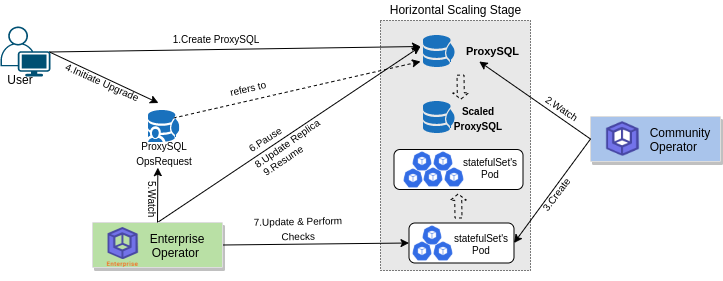
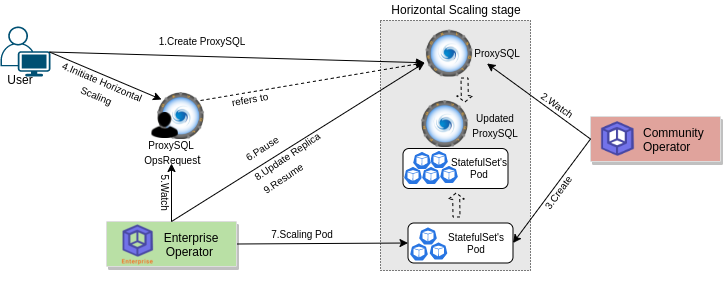
add proxysql docs : revised

diff --git a/docs/guides/proxysql/reconfigure/cluster/index.md b/docs/guides/proxysql/reconfigure/cluster/index.md
@@ -26,7 +26,7 @@ This guide will show you how to use `KubeDB` Enterprise operator to reconfigure 
 
 - You should be familiar with the following `KubeDB` concepts:
   - [ProxySQL](/docs/guides/proxysql/concepts/proxysql)
-  - [ProxySQL Cluster](/docs/guides/proxysql/clustering/galera-cluster)
+  - [ProxySQL Cluster](/docs/guides/proxysql/clustering/proxysql-cluster)
   - [ProxySQLOpsRequest](/docs/guides/proxysql/concepts/opsrequest)
   - [Reconfigure Overview](/docs/guides/proxysql/reconfigure/overview)
 
@@ -71,7 +71,7 @@ mysql.kubedb.com/mysql-server created
 Let's wait for the MySQL to be Ready. 
 
 ```bash
- $ kubectl get mysql -n demo 
+$ kubectl get mysql -n demo 
 NAME           VERSION   STATUS   AGE
 mysql-server   5.7.36    Ready    3m51s
 ```
@@ -215,7 +215,7 @@ NAME       TYPE          STATUS       AGE
 add-user   Reconfigure   Successful   20s
 ```
 
-Now let's check the mysql_users table in the proxysql server.
+Now let's check the `mysql_users` table in the proxysql server.
 
 ```bash
 ProxySQLAdmin > select username,password,active,default_hostgroup from mysql_users;
@@ -228,13 +228,13 @@ ProxySQLAdmin > select username,password,active,default_hostgroup from mysql_use
 2 rows in set (0.001 sec)
 ```
 
-We can see that the users has been successfuly added to the mysql_users table.
+We can see that the users has been successfuly added to the `mysql_users` table.
 
 ### Update Users
 
-We have successfuly added new users in the mysql_users table with proxysqlopsrequest in the last section. Now we will see how to update any user information with proxysqlopsrequest. 
+We have successfuly added new users in the `mysql_users` table with proxysqlopsrequest in the last section. Now we will see how to update any user information with proxysqlopsrequest. 
 
-Suppose we want to update the active status and the default_hostgroup for the users testA and testB. We can create an ops-request like the following. As in the mysql_users table the username is the primary key, we should always provide the username in the information. To update just change the reqType to update.
+Suppose we want to update the `active` status and the `default_hostgroup` for the users "testA" and "testB". We can create an ops-request like the following. As in the `mysql_users` table the `username` is the primary key, we should always provide the `username` in the information. To update just change the `.spec.reqType` to `"update"`.
 
 ```yaml
 apiVersion: ops.kubedb.com/v1alpha1
@@ -265,7 +265,7 @@ $ kubectl apply -f https://github.com/kubedb/docs/raw/{{< param "info.version" >
 proxysqlopsrequest.ops.kubedb.com/update-user created
 ```
 
-Now wait for the ops-request to be successful.
+Now wait for the ops-request to be Successful.
 
 ```bash
 $ kubectl get proxysqlopsrequest -n demo     
@@ -274,7 +274,7 @@ add-user      Reconfigure   Successful   2m36s
 update-user   Reconfigure   Successful   6s
 ```
 
-Let's check the mysql_users table from the admin interface. 
+Let's check the `mysql_users` table from the admin interface. 
 
 ```bash
 ProxySQLAdmin > select username,password,active,default_hostgroup from mysql_users;
@@ -291,7 +291,7 @@ From the above output we can see that the user information has been successfuly 
 
 ### Delete Users 
 
-To delete user from the mysql_users table, all we need to do is just provide the usernames in the spec.configuration.mysqlUsers.users array and set the reqType to delete. Let's have a look at the below yaml.
+To delete user from the `mysql_users` table, all we need to do is just provide the usernames in the `spec.configuration.mysqlUsers.users` array and set the `spec.reqType` to delete. Let's have a look at the following yaml.
 
 ```yaml
 apiVersion: ops.kubedb.com/v1alpha1
@@ -325,7 +325,7 @@ delete-user   Reconfigure   Successful   12s
 update-user   Reconfigure   Successful   2m59s
 ```
 
-Now check the mysql_users table in the proxysql server.
+Now check the `mysql_users` table in the proxysql server.
 
 ```bash
 ProxySQLAdmin > select username,password,active,default_hostgroup from mysql_users;
@@ -345,8 +345,8 @@ With `KubeDB` `ProxySQL` ops-request you can reconfigure `mysql_query_rules` tab
 
 ### Check current mysql_query_rules table in ProxySQL
 
-Let's check the current mysql_query_rules table in the proxysql server.
-We might see some of the rules are already present. It happens when no rules are set in the initConfig section while deploying the proxysql. The operator adds some of the default query rules so that the basic operations can be run through the proxysql server. 
+Let's check the current `mysql_query_rules` table in the proxysql server.
+We might see some of the rules are already present. It happens when no rules are set in the `.spec.initConfig` section while deploying the proxysql. The operator adds some of the default query rules so that the basic operations can be run through the proxysql server. 
 
 ```bash
 ProxySQLAdmin > select rule_id,active,match_digest,destination_hostgroup,apply from mysql_query_ru
@@ -363,7 +363,7 @@ les;
 
 ### Add Query Rules
 
-Let's add a query rule to the mysql_query_rules table with the proxysqlopsrequest. We should create a yaml like the following.
+Let's add a query rule to the `mysql_query_rules` table with the proxysqlopsrequest. We should create a yaml like the following.
 
 ```yaml
 apiVersion: ops.kubedb.com/v1alpha1
@@ -413,13 +413,13 @@ ProxySQLAdmin > select rule_id,active,match_digest,destination_hostgroup,apply f
 +---------+--------+------------------------+-----------------------+-------+
 4 rows in set (0.001 sec)
 ```
-We can see that the users has been successfuly added to the mysql_query_rules table.
+We can see that the users has been successfuly added to the `mysql_query_rules` table.
 
 ### Update Query Rules
 
-We have successfuly added new rule in the mysql_query_rules table with proxysqlopsrequest in the last section. Now we will see how to update any rules information with proxysqlopsrequest. 
+We have successfuly added new rule in the `mysql_query_rules` table with proxysqlopsrequest in the last section. Now we will see how to update any rules information with proxysqlopsrequest. 
 
-Suppose we want to update the active status ruel 4. We can create an ops-request like the following. As in the mysql_query_rules table the rule_id is the primary key, we should always provide the rule_id in the information. To update just change the reqType to update.
+Suppose we want to update the `active` status rule 4. We can create an ops-request like the following. As in the `mysql_query_rules` table the `rule_id` is the primary key, we should always provide the `rule_id` in the information. To update just change the `.spec.reqType` to update.
 ```yaml
 apiVersion: ops.kubedb.com/v1alpha1
 kind: ProxySQLOpsRequest
@@ -450,7 +450,7 @@ $ kubectl get proxysqlopsrequest -n demo | grep rule
 add-rule      Reconfigure   Successful   3m10s
 update-rule   Reconfigure   Successful   71s
 ```
-Let's check the mysql_query_rules table from the admin interface. 
+Let's check the `mysql_query_rules` table from the admin interface. 
 
 ```bash
 ProxySQLAdmin > select rule_id,active,match_digest,destination_hostgroup,apply from mysql_query_rules;
@@ -468,7 +468,7 @@ From the above output we can see that the rules information has been successfuly
 
 ### Delete Query Rules
 
-To delete rules from the mysql_query_rules table, all we need to do is just provide the rule_id in the spec.configuration.mysqlQueryRules.rules array and set the reqType to delete. Let's have a look at the below yaml.
+To delete rules from the `mysql_query_rules` table, all we need to do is just provide the `rule_id` in the `spec.configuration.mysqlQueryRules.rules` array and set the `.spec.reqType` to `"delete"`. Let's have a look at the below yaml.
 
 ```yaml
 apiVersion: ops.kubedb.com/v1alpha1
@@ -492,7 +492,7 @@ Let's apply the yaml.
 $ kubectl apply -f https://github.com/kubedb/docs/raw/{{< param "info.version" >}}/docs/guides/proxysql/reconfigure/cluster/examples/proxyops-remove-rules.yaml
 proxysqlopsrequest.ops.kubedb.com/delete-rule created
 ```
-Let's wait for the ops-request to be successful. 
+Let's wait for the ops-request to be Successful. 
 
 ```bash
 $ kubectl get proxysqlopsrequest -n demo | grep rule
@@ -501,7 +501,7 @@ delete-rule   Reconfigure   Successful   12s
 update-rule   Reconfigure   Successful   2m14s
 ```
 
-Now check the mysql_query_rules table in the proxysql server.
+Now check the `mysql_query_rules` table in the proxysql server.
 
 ```bash
 ProxySQLAdmin > select rule_id,active,match_digest,destination_hostgroup,apply from mysql_query_rules;
@@ -518,7 +518,7 @@ We can see that the user is successfuly deleted.
 
 ## Reconfigure Global Variables
 
-With KubeDB ProxySQL ops-request you can reconfigure mysql variables and admin variables. You can reconfigure almost all the global variables except mysql-interfaces, mysql-monitor_username, mysql-monitor_password, mysql-ssl_p2s_cert, mysql-ssl_p2s_key, mysql-ssl_p2s_ca, admin-admin_credentials and admin-mysql_interface. To reconfigure any variable, you need to set the .spec.type to Reconfigure, provide the KubeDB ProxySQL instance name under the spec.proxyRef section and provide the desired configuration under the spec.configuration.adminVariables and the spec.cofiguration.mysqlVariables section. Below there are some samples for corresponding request type.
+With `KubeDB` `ProxySQL` ops-request you can reconfigure mysql variables and admin variables. You can reconfigure almost all the global variables except `mysql-interfaces`, `mysql-monitor_username`, `mysql-monitor_password`, `mysql-ssl_p2s_cert`, `mysql-ssl_p2s_key`, `mysql-ssl_p2s_ca`, `admin-admin_credentials` and `admin-mysql_interface`. To reconfigure any variable, you need to set the `.spec.type` to Reconfigure, provide the KubeDB ProxySQL instance name under the `spec.proxyRef` section and provide the desired configuration under the `spec.configuration.adminVariables` and the `spec.cofiguration.mysqlVariables` section. Below there are some samples for corresponding request type.
 
 Suppose we want to update 4 global variables. Among these 2 are admin variables : cluster_check_interval_ms and refresh_interval . The other 2 are mysql variables : max_stmts_per_connection and max_transaction_time.
 
@@ -542,7 +542,7 @@ ProxySQLAdmin > show global variables;
 193 rows in set (0.001 sec)
 ```
 
-To reconfigure these variables all we need to do is create a yaml like the following. Just mention the variable name and its desired value in a key-value style under corresponding variable type i.e mysqlVariables and adminVariables. 
+To reconfigure these variables all we need to do is create a yaml like the following. Just mention the variable name and its desired value in a key-value style under corresponding variable type i.e `mysqlVariables` and `adminVariables`. 
 
 ```yaml
 apiVersion: ops.kubedb.com/v1alpha1
@@ -566,7 +566,7 @@ spec:
 Let's apply the yaml.
 
 ```bash
-$ kubectl apply -f https://github.com/kubedb/docs/raw/{{< param "info.version" >}}/docs/guides/proxysql/reconfigure/cluster/examples/proxyops-recon-vars.yaml  12:18
+$ kubectl apply -f https://github.com/kubedb/docs/raw/{{< param "info.version" >}}/docs/guides/proxysql/reconfigure/cluster/examples/proxyops-recon-vars.yaml
 proxysqlopsrequest.ops.kubedb.com/recofigure-vars created
 ```
 

diff --git a/docs/guides/proxysql/scaling/horizontal-scaling/cluster/index.md b/docs/guides/proxysql/scaling/horizontal-scaling/cluster/index.md
@@ -26,7 +26,7 @@ This guide will show you how to use `KubeDB` Enterprise operator to scale the cl
 
 - You should be familiar with the following `KubeDB` concepts:
     - [ProxySQL](/docs/guides/proxysql/concepts/proxysql/)
-    - [ProxySQL Cluster](/docs/guides/proxysql/clustering/galera-cluster/)
+    - [ProxySQL Cluster](/docs/guides/proxysql/clustering/proxysql-cluster/)
     - [ProxySQLOpsRequest](/docs/guides/proxysql/concepts/opsrequest/)`
     - [Horizontal Scaling Overview](/docs/guides/proxysql/scaling/horizontal-scaling/overview/)
 
@@ -63,7 +63,7 @@ spec:
 ```
 
 ```bash
-$ kubectl create -f https://github.com/kubedb/docs/raw/{{< param "info.version" >}}/docs/guides/proxysql/scaling/vertical-scaling/cluster/example/sample-mysql.yaml
+$ kubectl create -f https://github.com/kubedb/docs/raw/{{< param "info.version" >}}/docs/guides/proxysql/scaling/horizontal-scaling/cluster/example/sample-mysql.yaml
 mysql.kubedb.com/mysql-server created 
 ```
 
@@ -72,10 +72,6 @@ After applying the above yaml wait for the MySQL to be Ready.
 ## Apply Horizontal Scaling on Cluster
 
 Here, we are going to deploy a  `ProxySQL` cluster using a supported version by `KubeDB` operator. Then we are going to apply horizontal scaling on it.
-
-### Prepare ProxySQL Cluster
-
-Now, we are going to deploy a `ProxySQL` cluster with version `2.3.2-debian`.
 
 ### Deploy ProxySQL Cluster
 
@@ -147,7 +143,7 @@ We are now ready to apply the `ProxySQLOpsRequest` CR to scale this server.
 
 Here, we are going to scale up the replicas of the replicaset to meet the desired number of replicas after scaling.
 
-#### Create ProxySQLOpsRequest
+### Create ProxySQLOpsRequest
 
 In order to scale up the replicas of the replicaset of the server, we have to create a `ProxySQLOpsRequest` CR with our desired replicas. Below is the YAML of the `ProxySQLOpsRequest` CR that we are going to create,
 
@@ -179,7 +175,7 @@ $ kubectl apply -f https://github.com/kubedb/docs/raw/{{< param "info.version" >
 proxysqlopsrequest.ops.kubedb.com/scale-up created
 ```
 
-#### Verify Cluster replicas scaled up successfully
+### Verify Cluster replicas scaled up successfully
 
 If everything goes well, `KubeDB` Enterprise operator will update the replicas of `ProxySQL` object and related `StatefulSets` and `Pods`.
 
@@ -222,11 +218,11 @@ root@proxy-server-1:/#
 
 From all the above outputs we can see that the replicas of the cluster is `5`. That means we have successfully scaled up the replicas of the ProxySQL replicaset.
 
-### Scale Down Replicas
+## Scale Down Replicas
 
 Here, we are going to scale down the replicas of the cluster to meet the desired number of replicas after scaling.
 
-#### Create ProxySQLOpsRequest
+### Create ProxySQLOpsRequest
 
 In order to scale down the cluster of the server, we have to create a `ProxySQLOpsRequest` CR with our desired replicas. Below is the YAML of the `ProxySQLOpsRequest` CR that we are going to create,
 
@@ -274,9 +270,9 @@ We can see from the above output that the `ProxySQLOpsRequest` has succeeded. No
 
 ```bash
 $ kubectl get proxysql -n demo proxy-server -o json | jq '.spec.replicas' 
-3
+4
 $ kubectl get sts -n demo proxy-server -o json | jq '.spec.replicas'
-3
+4
 ```
 
 Now let's connect to a proxysql instance and run a proxysql internal command to check the number of replicas,

diff --git a/docs/guides/proxysql/reconfigure-tls/cluster/index.md b/docs/guides/proxysql/reconfigure-tls/cluster/index.md
@@ -272,7 +272,7 @@ issuer.cert-manager.io/proxy-issuer created
 
 ### Apply ops-request to add TLS
 
-We are all set to go! now lets create an ReconfigureTLS ops-request like below. We have set a desired configuration under the spec.tls section here as you can see. You can checkout the api documentation of this field here #edit
+We are all set to go! now lets create an ReconfigureTLS ops-request like below. We have set a desired configuration under the `.spec.tls` section here as you can see. You can checkout the api documentation of this field [here](https://pkg.go.dev/kubedb.dev/apimachinery@v0.29.1/apis/ops/v1alpha1#ProxySQLOpsRequestSpec).
 
 ```yaml
 apiVersion: ops.kubedb.com/v1alpha1
@@ -323,7 +323,7 @@ proxy-server-server-cert             kubernetes.io/tls                     3    
 proxy-server-client-cert             kubernetes.io/tls                     3      4m53s 
 ```
 
-The directory /var/lib/frontend/ should carry the certificates and other files within the directories as seen below. 
+The directory `/var/lib/frontend/` should carry the certificates and other files within the directories as seen below. 
 ```bash
 root@proxy-server-0:/# ls /var/lib/frontend/
 client	server
@@ -335,7 +335,7 @@ root@proxy-server-0:/# ls /var/lib/frontend/server
 ca.crt   tls.crt   tls.key
 ```
 
-The mysql-have_ssl variables should be true by this time. 
+The `mysql-have_ssl` variables should be true by this time. 
 
 ```bash
 root@proxy-server-0:/# mysql -uadmin -padmin -h127.0.0.1 -P6032
@@ -560,7 +560,7 @@ recon-tls-rotate      ReconfigureTLS   Successful    5m
 
 ### Check ops-request effect
 
-Let's check the if the expiration time has been updated or not. 
+Let's check if the expiration time has been updated or not. 
 
 ```bash
 root@proxy-server-0:/# openssl x509 -in /var/lib/frontend/client/tls.crt -inform  PEM -enddate -nameopt RFC2253 -noout
@@ -723,11 +723,11 @@ subject=CN=proxy-server,O=kubedb:server
 md.alifbiswas@gmail.com
 ```
 
-We can see the email has been successfuly updated. You can configure other field as well. To know more about the .spec.tls field refer to the link here #edit.
+We can see the email has been successfuly updated. You can configure other field as well. To know more about the .spec.tls field refer to the link [here](https://pkg.go.dev/kubedb.dev/apimachinery@v0.29.1/apis/ops/v1alpha1#TLSSpec) .
 
 ## Remove TLS
 
-To remove TLS from a KubeDB ProxySQL instance, all you need to do is apply a similar yaml like below. Just change the .spec.proxyRef.name field with your own proxysql instance name. 
+To remove TLS from a KubeDB ProxySQL instance, all you need to do is apply a similar yaml like below. Just change the `.spec.proxyRef.name` field with your own ProxySQL instance name. 
 
 ```yaml
 apiVersion: ops.kubedb.com/v1alpha1
@@ -759,7 +759,7 @@ recon-tls-rotate      ReconfigureTLS   Successful    12m
 
 ### Check ops-request effect
 
-Let's check the effect . 
+Let's check the effect. 
 
 ```bash
 root@proxy-server-1:/# mysql -uadmin -padmin -h127.0.0.1 -P6032

diff --git a/docs/guides/proxysql/scaling/vertical-scaling/cluster/index.md b/docs/guides/proxysql/scaling/vertical-scaling/cluster/index.md
@@ -76,8 +76,6 @@ Here, we are going to deploy a  `ProxySQL` cluster using a supported version by 
 
 Now, we are going to deploy a `ProxySQL` cluster database with version `2.3.2-debian`.
 
-### Deploy ProxySQL Cluster
-
 In this section, we are going to deploy a ProxySQL cluster. Then, in the next section we will update the resources of the servers using `ProxySQLOpsRequest` CRD. Below is the YAML of the `ProxySQL` CR that we are going to create,
 
 ```yaml
@@ -172,7 +170,7 @@ Here,
 
 - `spec.proxyRef.name` specifies that we are performing vertical scaling operation on `proxy-server` instance.
 - `spec.type` specifies that we are performing `VerticalScaling` on our server.
-- `spec.VerticalScaling.proxysql` specifies the desired resources after scaling.
+- `spec.verticalScaling.proxysql` specifies the desired resources after scaling.
 
 Let's create the `ProxySQLOpsRequest` CR we have shown above,
 

diff --git a/docs/guides/proxysql/reconfigure-tls/overview/index.md b/docs/guides/proxysql/reconfigure-tls/overview/index.md
@@ -29,7 +29,7 @@ This guide will give an overview on how KubeDB Enterprise operator reconfigures 
 The following diagram shows how KubeDB Enterprise operator reconfigures TLS of a `ProxySQL` database. Open the image in a new tab to see the enlarged version.
 
 <figure align="center">
-  <img alt="Reconfiguring TLS process of ProxySQL" src="/docs/guides/proxysql/reconfigure-tls/overview/images/reconfigure-tls.jpeg">
+  <img alt="Reconfiguring TLS process of ProxySQL" src="/docs/guides/proxysql/reconfigure-tls/overview/images/reconfigure-tls.png">
 <figcaption align="center">Fig: Reconfiguring TLS process of ProxySQL</figcaption>
 </figure>
 

diff --git a/docs/guides/proxysql/upgrading/overview/index.md b/docs/guides/proxysql/upgrading/overview/index.md
@@ -29,7 +29,7 @@ This guide will give you an overview on how KubeDB Enterprise operator upgrade t
 The following diagram shows how KubeDB Enterprise operator used to upgrade the version of `ProxySQL`. Open the image in a new tab to see the enlarged version.
 
 <figure align="center">
-  <img alt="Upgrading Process of ProxySQL" src="/docs/guides/proxysql/upgrading/overview/images/proxysql-upgrade.jpeg">
+  <img alt="Upgrading Process of ProxySQL" src="/docs/guides/proxysql/upgrading/overview/images/proxysql-upgrade.png">
 <figcaption align="center">Fig: Upgrading Process of ProxySQL</figcaption>
 </figure>
 
